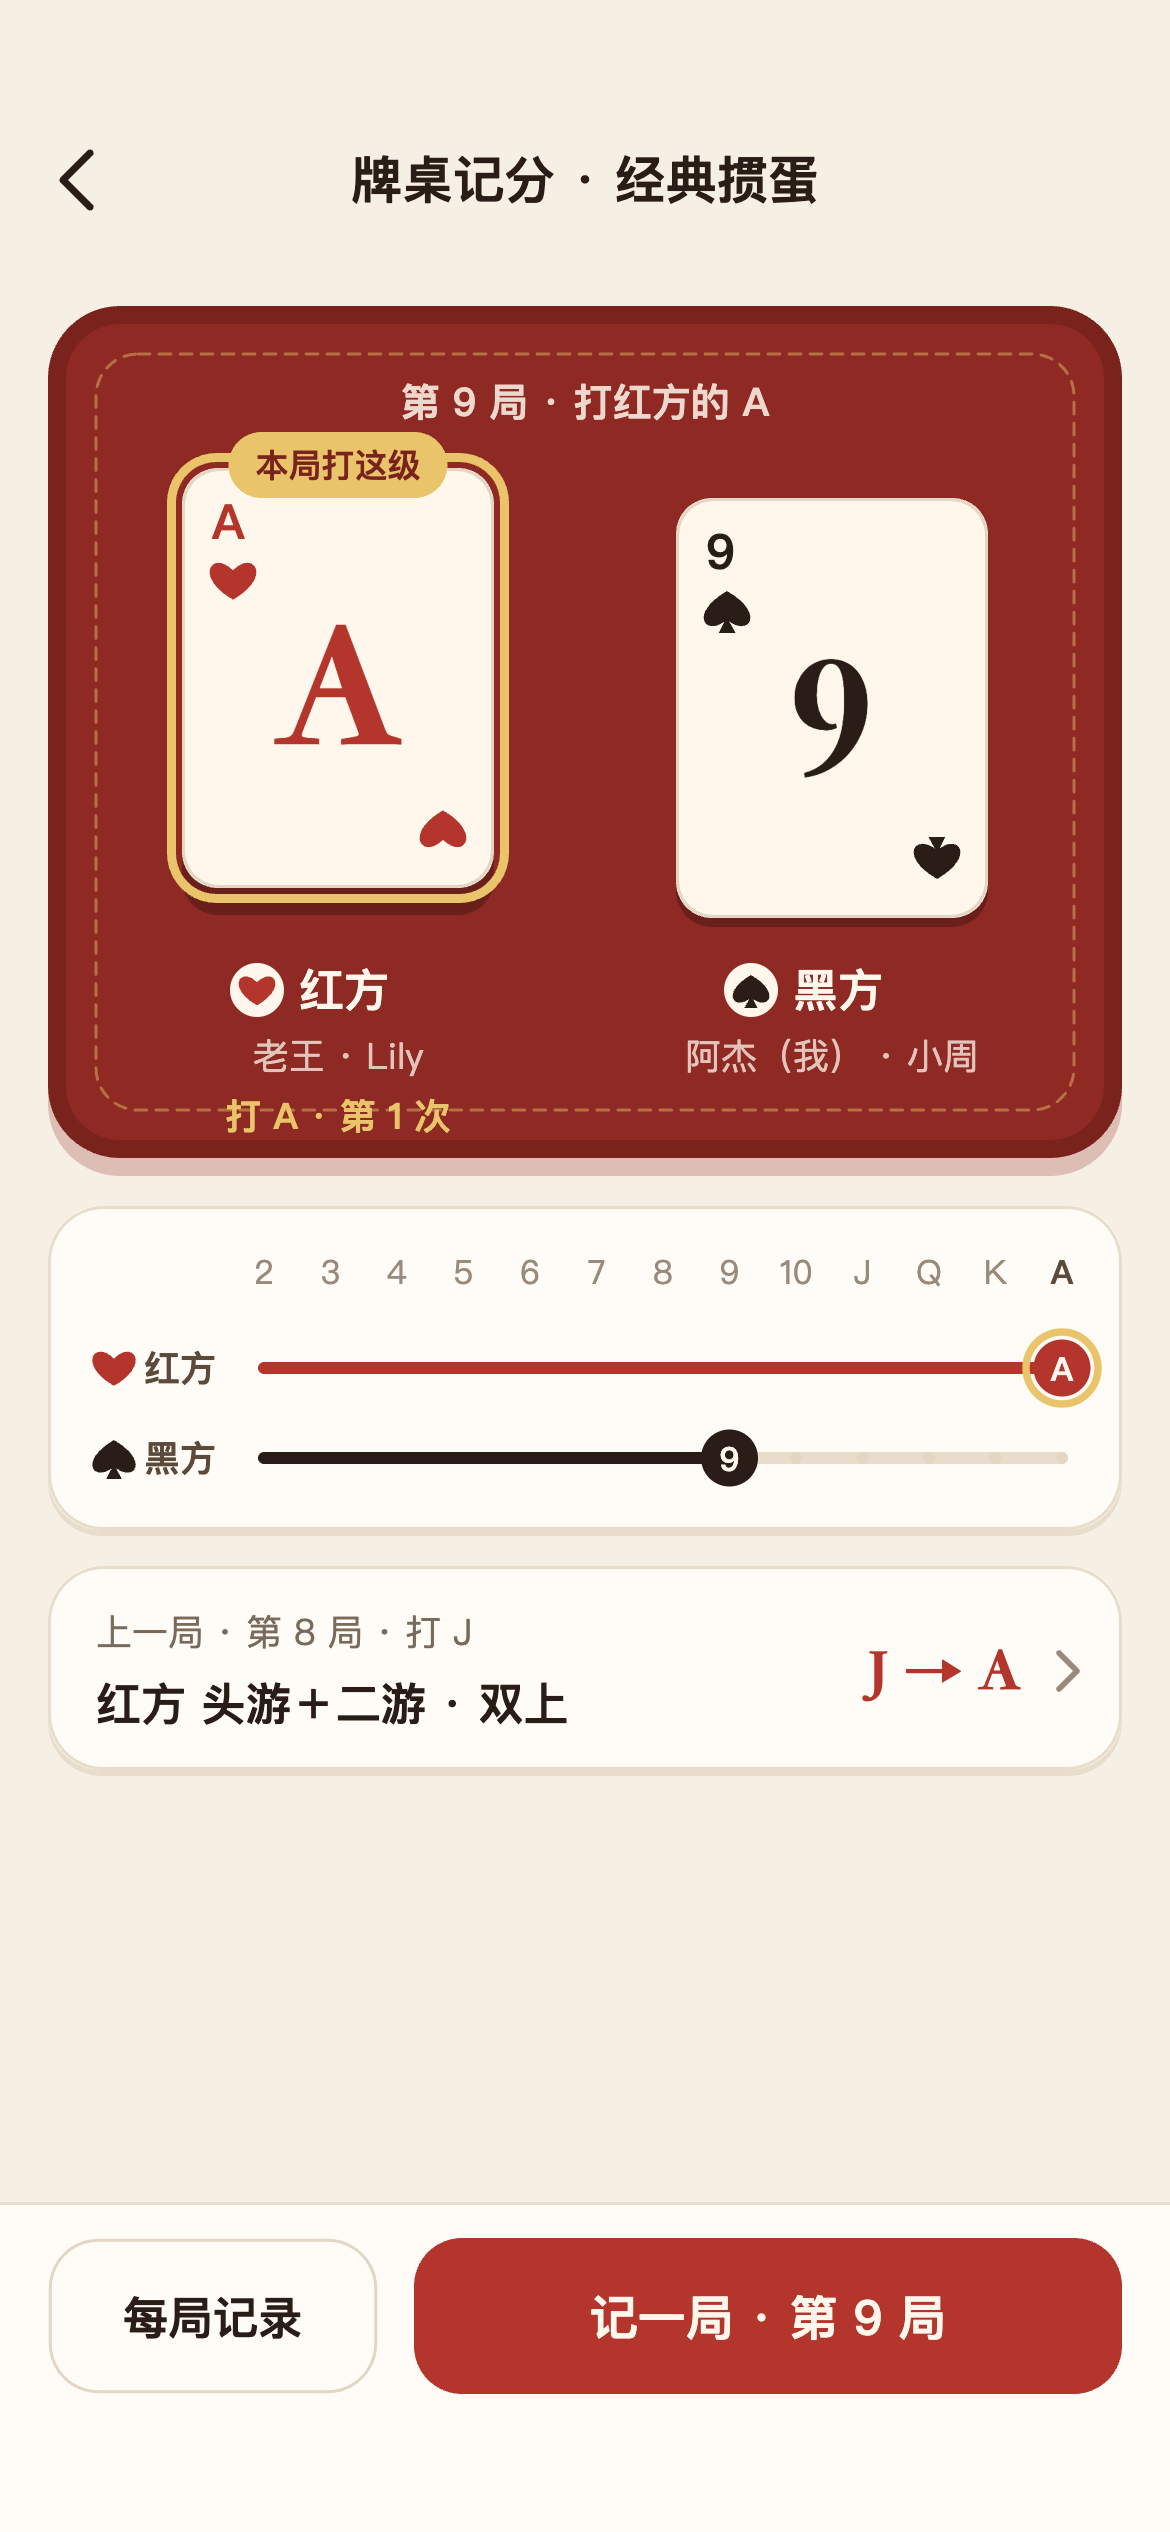
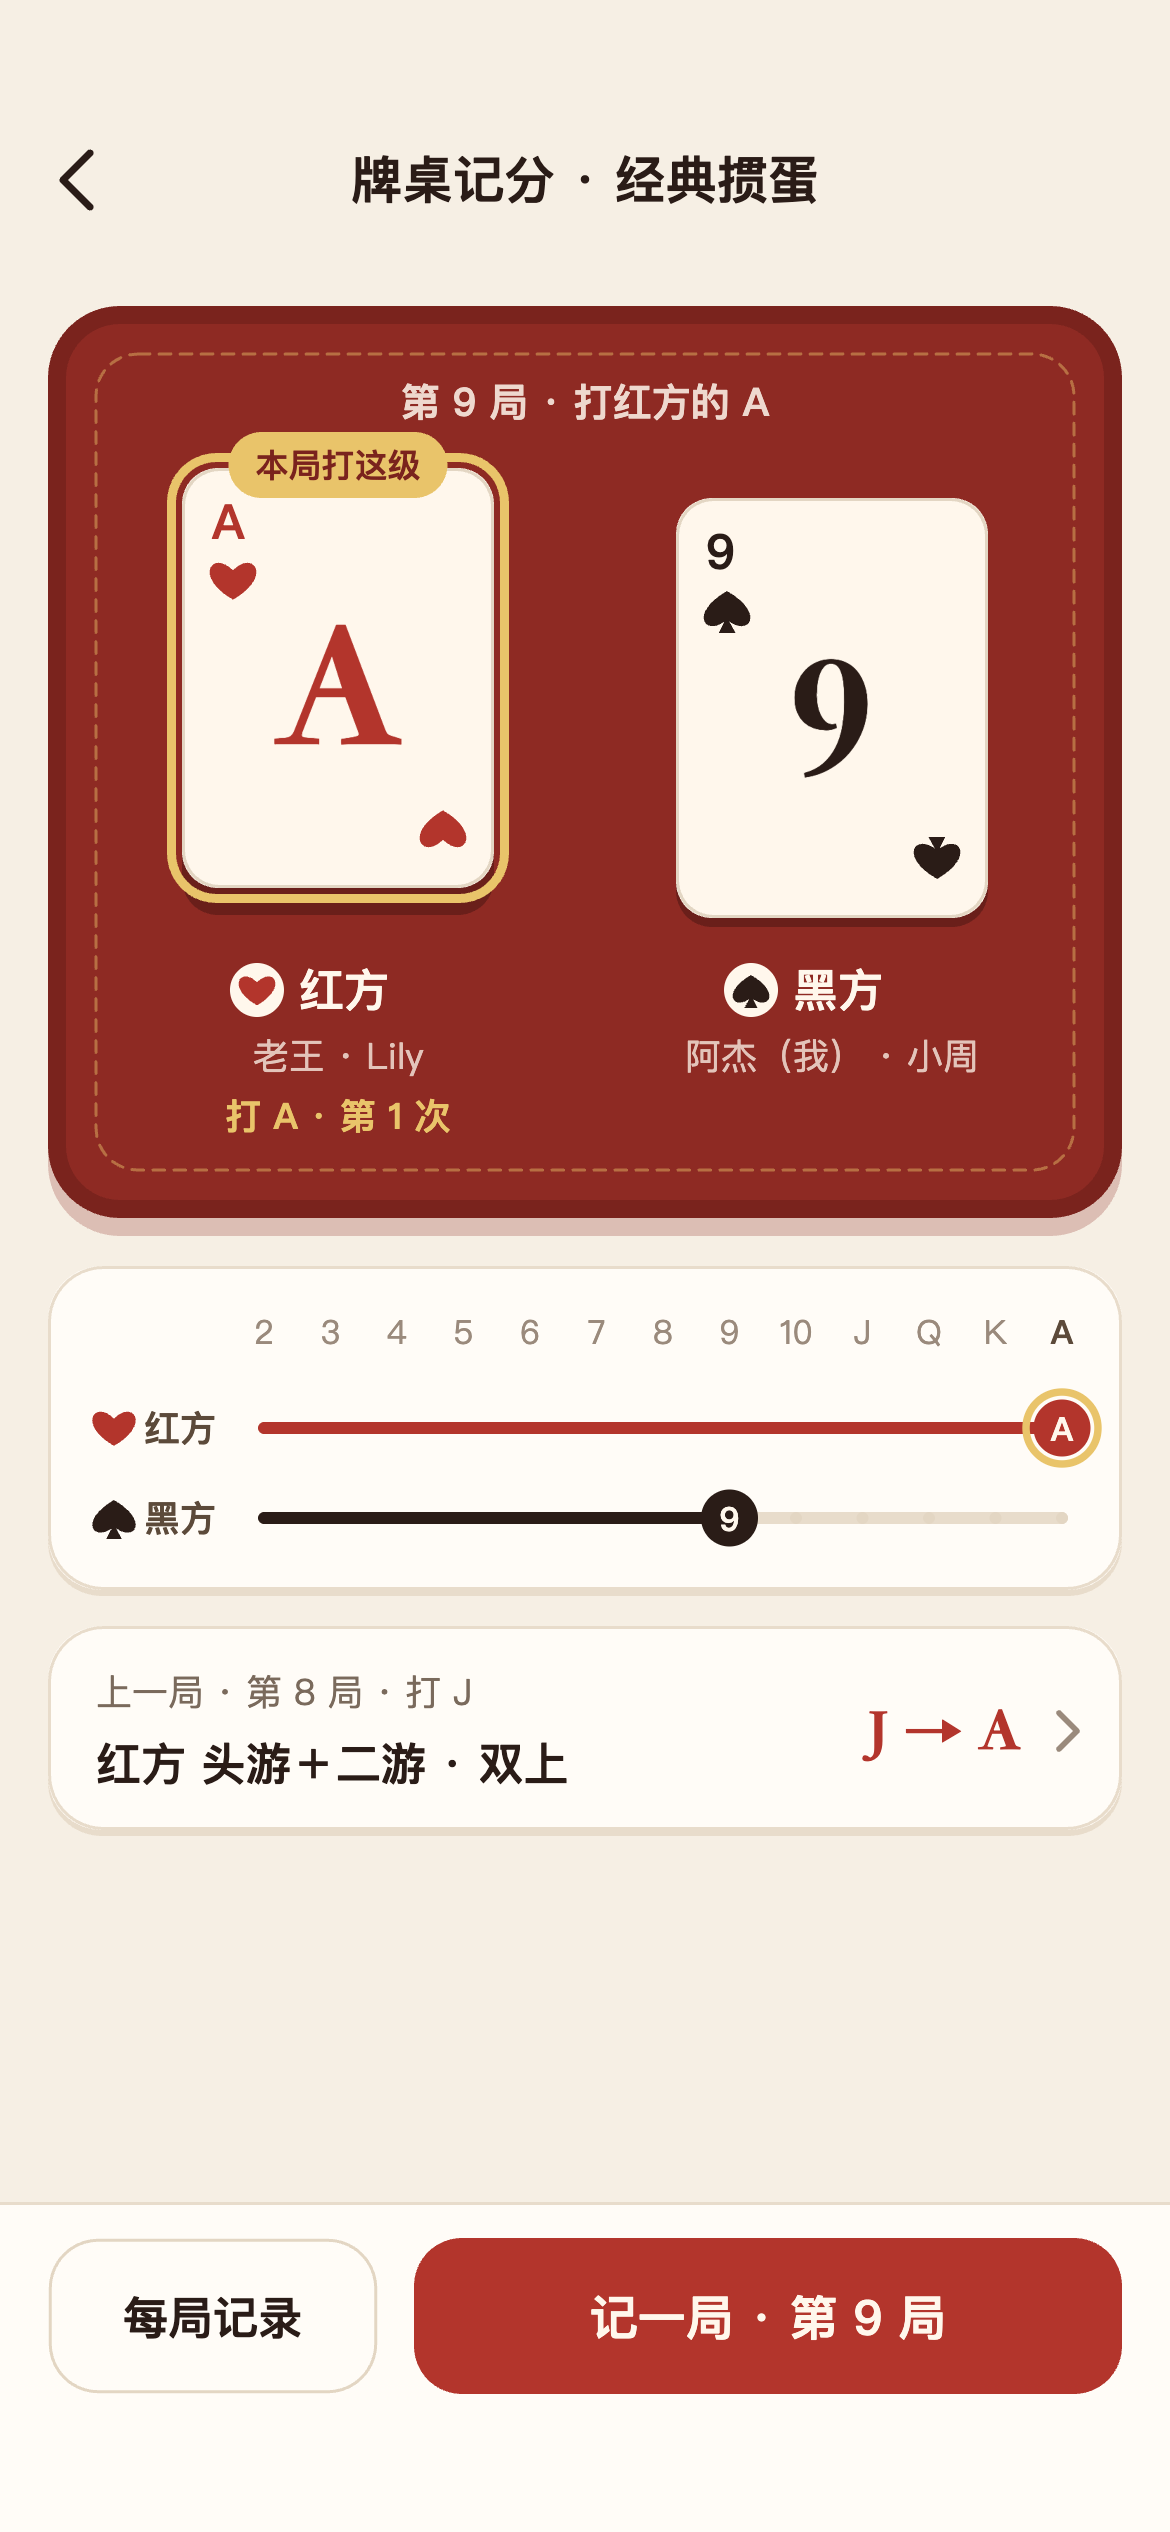
impl: #208 打 A 那一行放进牌桌、不升级局占位文案；验收接收端兜住两处
界面（#207 复审从验收截图里看出来的，不是 #207 引入的）：

1. 本队打到 A 之后多一行金色「打 A · 第 1 次」，原来画在 y+270、而牌桌固定 284 的
   内虚线落在 268 —— 字压在内虚线上、下半截出框（见 S6b-score-at-A.png）。
   设计稿 7.2 把这一行排在成员下面，但没给这行留尺寸，所以**只在这一行真的出现时**
   把牌桌放高 20（284 → 304）：不在 A 的那一局还是 284，其他行位置一点没动
   （逐像素比过，见验收 README 的「#208 复核」）。
2. 不升级玩法的记一局弹层，占位文案原来照抄经典玩法（「选完两步，这里显示升几级」），
   但这个玩法只点头游。按玩法换掉：「点头游，这里显示这一局谁赢」。

验收文档和接收端：

3. README 说 S13 是「1 : 0」，图里实际是「0 : 0」，改成图里的样子。
   另外原来那张 S13-no-level-record.png 拍的是「弹层刚打开、什么都没选」，和它的说明
   （「只要第一步」）对不上：换成 S13-no-level-sheet.png（新占位文案）+ 新增
   S13-no-level-ready.png（点了头游主按钮就能记）。
4. sink.js：query 里的 name 只取文件名（原来 `?name=../../x` 能写到输出目录外面）；
   日志缺 kind / 不是 JSON / 是 null 都记成 unparsed，不再把接收端搞崩；单条请求出错回 400、
   继续服务。

改完按验收 README 的「怎么跑」重跑了一整轮小游戏（46 步全过），重截/新增三张图。
两处接收端的改动是用改前/改后各起一个、打同样的坏请求验的：改前缺 kind 直接退出、
`../` 写到目录外；改后 200 记下并继续、`..` 回 400。

Changed region(s): [[0.0308, 0.4368, 0.9846, 0.7488]]

diff --git a/docs/verify/165-accept/sink.js b/docs/verify/165-accept/sink.js
@@ -30,35 +30,65 @@ function firstFilePart(buf, boundary) {
   return null
 }
 
+// query 里的 name 只当文件名用：直接拼路径的话 `?name=../../x` 能写到 OUT 外面（#208 四）。
+// 只监听 127.0.0.1，风险低，但没理由留这个口子。
+function safeName(raw) {
+  const s = String(raw || '')
+  if (!s || s.includes('\0')) return null
+  const base = path.basename(s)
+  if (!base || base === '.' || base === '..' || base.includes('/') || base.includes('\\')) return null
+  return base
+}
+
+function handle(req, res, body) {
+  const url = new URL(req.url, 'http://127.0.0.1')
+  const raw = url.searchParams.get('name')
+  if (raw) {
+    // 截图
+    const name = safeName(raw)
+    if (!name) throw new Error('bad name: ' + JSON.stringify(raw))
+    const ct = req.headers['content-type'] || ''
+    const m = /boundary=(.+)$/.exec(ct)
+    let img = null
+    if (m) img = firstFilePart(body, m[1].replace(/^"|"$/g, ''))
+    if (!img) img = body
+    const file = path.join(OUT, name + '.png')
+    fs.writeFileSync(file, img)
+    console.log('SHOT ' + name + ' ' + img.length + 'B -> ' + file)
+    return
+  }
+  // 日志：JSON 解析失败、或者根本不是对象（null / 数组 / 数字），都当「没解析出来」记下来，
+  // 不能因为一条坏日志就把接收端整个搞崩（#208 四）。
+  let j = null
+  try { j = JSON.parse(body.toString('utf8')) } catch { j = null }
+  if (!j || typeof j !== 'object' || Array.isArray(j)) j = { kind: 'unparsed', raw: body.toString('utf8').slice(0, 200) }
+  fs.appendFileSync(logPath, JSON.stringify(j) + '\n')
+  const d = j.data && typeof j.data === 'object' ? j.data : {}
+  const kind = typeof j.kind === 'string' && j.kind ? j.kind : 'unknown'; // 缺 kind 也要兜住
+  const line = kind === 'state' ? 'STATE ' + d.label + ' stack=' + JSON.stringify(d.stack) + ' sheets=' + d.sheets
+    : kind === 'touchstart' ? 'TOUCH ' + d.x + ',' + d.y + ' hit=' + d.hit
+    : kind === 'unparsed' ? 'UNPARSED ' + String(j.raw || '').slice(0, 200)
+    : kind.toUpperCase() + ' ' + JSON.stringify(d).slice(0, 220);
+  if (kind !== j.kind) console.log('（这条日志没有 kind，按 unknown 记）');
+  console.log(line);
+}
+
 http
   .createServer((req, res) => {
     const chunks = []
     req.on('data', (c) => chunks.push(c))
     req.on('end', () => {
-      const body = Buffer.concat(chunks)
-      const url = new URL(req.url, 'http://127.0.0.1')
-      const name = url.searchParams.get('name')
-      if (name) {
-        // 截图
-        const ct = req.headers['content-type'] || ''
-        const m = /boundary=(.+)$/.exec(ct)
-        let img = null
-        if (m) img = firstFilePart(body, m[1].replace(/^"|"$/g, ''))
-        if (!img) img = body
-        const file = path.join(OUT, name + '.png')
-        fs.writeFileSync(file, img)
-        console.log('SHOT ' + name + ' ' + img.length + 'B -> ' + file)
-      } else {
-        let j = null
-        try { j = JSON.parse(body.toString('utf8')) } catch { j = { kind: 'unparsed', raw: body.toString('utf8').slice(0, 200) } }
-        fs.appendFileSync(logPath, JSON.stringify(j) + '\n')
-        const d = j.data || {}
-        if (j.kind === 'state') console.log('STATE ' + d.label + ' stack=' + JSON.stringify(d.stack) + ' sheets=' + d.sheets)
-        else if (j.kind === 'touchstart') console.log('TOUCH ' + d.x + ',' + d.y + ' hit=' + d.hit)
-        else console.log(j.kind.toUpperCase() + ' ' + JSON.stringify(d).slice(0, 220))
+      try {
+        handle(req, res, Buffer.concat(chunks))
+        res.writeHead(200, { 'content-type': 'text/plain' })
+        res.end('ok')
+      } catch (e) {
+        // 一条请求处理不了不该让接收端退出：回 400、打日志，继续收后面的
+        console.error('BAD ' + (e && e.message ? e.message : e))
+        res.writeHead(400, { 'content-type': 'text/plain' })
+        res.end('bad request\n')
       }
-      res.writeHead(200, { 'content-type': 'text/plain' })
-      res.end('ok')
     })
   })
   .listen(PORT, '127.0.0.1', () => console.log('sink on 127.0.0.1:' + PORT + ' -> ' + OUT))
+

diff --git a/app/minigame/src/scenes/score.ts b/app/minigame/src/scenes/score.ts
@@ -272,7 +272,12 @@ export class ScoreScene implements Scene {
 
   /** S3：两张级牌立在牌桌上 */
   private drawBoard(ctx: Ctx, s: StartedScore, y: number): number {
-    const a = this.app, x = PAD, w = a.W - PAD * 2, h = 284, st = this.board;
+    const a = this.app, x = PAD, w = a.W - PAD * 2, st = this.board;
+    // 本队到 A 之后多一行金色「打 A · 第 1 次」，设计稿 7.2 把它排在成员下面，
+    // 但牌桌固定 284 放不下：inset 16 的内虚线落在 268，字会压在上面、下半截出框（#208 截图）。
+    // 所以只在这一行真的出现时把牌桌放高 20 —— 平时保持设计稿的 284，不动其他行。
+    const atA = (["red", "black"] as const).some((t) => !!aTip(st[t]));
+    const h = atA ? 304 : 284;
     felt(ctx, x, y, w, h);
     text(ctx, boardTitle(s.rounds.length + 1, st, s.settings.kind), a.W / 2, y + 32, font(13, "700"), CREAM(0.85), "center");
     (["red", "black"] as const).forEach((t) => {
@@ -575,7 +580,7 @@ function recordSheet(sc: ScoreScene, editing: ScoreRound | null) {
         pv = previewText(settings, pre, f, names);
         if (editing && pv.kind === "normal" && editing.winner === pv.team) pv = { ...pv, sub: `原来 → ${levelName(editing.level_after)}` };
       }
-      drawPreview(ctx, 20, cy, pw, ph, pv);
+      drawPreview(ctx, 20, cy, pw, ph, pv, noLevel);
       cy += ph + 14;
 
       // S10：改一局的连带变化（本地按规则重算的预览，提交后以服务端为准）
@@ -609,10 +614,11 @@ function impactLine(now: ScoreState, after: ScoreState): string {
   return `现在 ${team("red")} · ${team("black")} · ${tail}`;
 }
 
-function drawPreview(ctx: Ctx, x: number, y: number, w: number, h: number, p: Preview | null) {
+function drawPreview(ctx: Ctx, x: number, y: number, w: number, h: number, p: Preview | null, noLevel = false) {
   if (!p) {
     strokeRR(ctx, x + 0.5, y + 0.5, w - 1, h - 1, 14, C.line2, 1, [4, 4]);
-    text(ctx, "选完两步，这里显示升几级", x + w / 2, y + h / 2, font(13), C.ink4, "center");
+    // 不升级局只看头游、没有级数变化，占位文案跟着换（#208 二）
+    text(ctx, noLevel ? "点头游，这里显示这一局谁赢" : "选完两步，这里显示升几级", x + w / 2, y + h / 2, font(13), C.ink4, "center");
     return;
   }
   if (p.kind === "pass") {

diff --git a/docs/verify/165-accept/README.md b/docs/verify/165-accept/README.md
@@ -6,8 +6,11 @@
 - 工具：微信开发者工具（`appid wxc39979bdad718461`，`compileType: game`），机型 375×667
 - 服务端：本机 `GUANDAN_DEV=1`（假 wx 登录、假内容检测），`API_BASE=http://127.0.0.1:18780`
 - 走查脚本：`app/minigame/src/accept165.ts`（只编进 `--selftest` 包，见下面「怎么跑」）
-- 一次跑完 32 步、33 张图，**没有一步落空**（脚本会把「热区没找到 / 被禁用 / 步骤抛异常」
+- 一次跑完 46 步、48 张图，**没有一步落空**（脚本会把「热区没找到 / 被禁用 / 步骤抛异常」
   都报回来；这一轮这三种一条都没有）
+- **这批图来自两轮**：#206 那一轮（多数图）+ #208 修完后又跑的一轮（下面标注了「#208 重截」
+  的三张）。两轮的走查脚本和页面代码只差 #208 那两处改动 —— 其余图逐像素核过，
+  除了详情页那个跟着真实时间走的「开打时刻」以外没有变化（见文末「#208 复核」）
 
 ## 为什么不用 `miniprogram-automator`
 
@@ -51,7 +54,7 @@ cli open --project <repo>/app/minigame
 | `S4-record-1.png` | S4 | 记一局①：谁头游（红方一行、黑方一行，同一行就是搭档） |
 | `S5-record-2-head.png` | S5 | 选了头游 → ② 头游的搭档第几 启用 |
 | `S6-record-3-preview.png` | S6 | 选完搭档 → 预览「升 N 级 · 下一局打 X」 |
-| `S6b-score-at-A.png` | S3/S6 | 红方打到 A：A 牌金边 +「本局打这级」 |
+| `S6b-score-at-A.png` | S3/S6 | 红方打到 A：A 牌金边 +「本局打这级」+ 成员下面一行金色「打 A · 第 1 次」（**#208 重截**：#208 之前这一行压在牌桌内虚线上、下半截出框） |
 | `S6b-pass-A-preview.png` | **S6 的过 A 分支** | 「本局打红方的 A · 第 1 次」；② 换成「过 A / 过 A / 没过」；预览变**金色**「过 A！红方 赢下这一场」；主按钮变「记下 · 本场结束」 |
 | `S7-recorded.png` | S7 | 记下第 1 局 → 回记分页，级数和路线都动了 |
 | `S9-records.png` | S9 | 每局记录：局号圆、「打黑 7」签、谁记的、右侧级数变化 |
@@ -62,8 +65,9 @@ cli open --project <repo>/app/minigame
 | `S12-take-theirs.png` | S12 | 点了「用 TA 的」之后 |
 | `S8-match-over.png` | S8 | 本场结束：赢方 A 牌金边、「红方 过 A」、操作栏「分享战报 / 再来一场」 |
 | `S15-report-card.png` | S15 | 战报卡片（`wx.shareAppMessage` 生成的 imageUrl，直接从钩子里截回来） |
-| `S13-no-level-score.png` | S13 | 不升级玩法：两张牌换成**胜局数 1 : 0**，下面「双上」次数卡，没有级牌和升级路线 |
-| `S13-no-level-record.png` | S13 | 不升级的记一局：只要第一步（选了头游主按钮就能点） |
+| `S13-no-level-score.png` | S13 | 不升级玩法：两张牌换成**胜局数 0 : 0**（那一轮还没记过局），下面「双上」次数卡，没有级牌和升级路线 |
+| `S13-no-level-sheet.png` | S13 | 不升级的记一局弹层刚打开：② 是可选的（右边写「可以不选」），占位文案按玩法换成「点头游，这里显示这一局谁赢」（**#208 重截**） |
+| `S13-no-level-ready.png` | S13 | 不升级的记一局：点了头游就能记 —— 预览「红方赢一局 / 老王 头游」，主按钮可用（**#208 新增**） |
 | `S14-spectator.png` | S14 | 旁观视角：底栏只有「分享」+「只有座位上的四个人能记分」 |
 
 S12 的「两个人记的**一样** → 静默合并 + toast「和 Lily 记的一样」」这一轮**没单独截**：
@@ -109,3 +113,31 @@ S15 卡片全部通过**，没有一张是空页/过渡帧。几何也量过：S
    （一个人同时最多占 5 个位置）。
 6. `waitHit` 要等「能用」而不只是「存在」：弹层里没选头游时，搭档那三个选项**也在 hits 里**，
    只是 `onTap=null`。
+
+## #208 复核：重截之后又跑了一轮
+
+#208 改了两处界面（打 A 那一行、不升级局的占位文案），改完按上面的「怎么跑」又完整跑了一轮
+（服务端 127.0.0.1:18790、接收端 127.0.0.1:18690，避开别的会话）。46 步全过，
+`tap-miss` / `tap-disabled` / `step-throw` / `shot-throw` 一条都没有。
+
+**这一轮是不是只动了该动的**：把新图和老图**逐像素**比了一遍（`PIL` 的 `ImageChops`），
+不是只看「差不多」。结论：**版面一处没动**，多出来的差异全部能解释。
+
+| 图 | 不同像素 | 为什么 |
+|---|---|---|
+| 其余各页（S3–S7、S11、S12 两张、S13 计分、S14） | 0～38 | 只有文字抗锯齿的噪点（`S8`、`S15` 连字节都一样）；记分页也在这档，说明**不在 A 的那一局牌桌还是 284、位置一点没动** |
+| S1 详情页、S2 开始弹层 | 10871（0.367%） | 都在「开打时刻」那一块：走查每轮新建一局、开打时刻 = 跑的时刻 + 20 分钟，所以显示 09:40 / 10:37 这种**真实时间** |
+| S9 每局记录、S10 改一局（两张） | 3128～10922 | 都是记录行里「谁记的 + 时刻」那一列（`Lily 09:20 记` → `Lily 10:18 记`），同样是真实时间 |
+| S6b-pass-A-preview | 1314 | 差异**只沿弹层左边缘**（每行最多 10 个像素）：弹层是半透明的边，背后那块牌桌因为这次改动高了 20，混出来的边色跟着变了一点 |
+| S6b-score-at-A | 牌桌 284 → 304 | 这次要改的第一处 |
+| S13-no-level-sheet | 占位文案那一行 | 这次要改的第二处 |
+
+**顺手验了接收端的两个小修**（`sink.js`）——用改之前的那份和改之后的各起一个、打同样的坏请求：
+
+```
+改之前  日志缺 kind          → 接收端直接退出（HTTP 000），后面全收不到
+改之前  ?name=../../escaped  → 200，并把文件写到输出目录**外面**（/tmp/sink-proof/escaped.png）
+改之后  日志缺 kind          → 200，记成 UNPARSED {"data":{"label":"x"}}，接收端继续跑
+改之后  ?name=../../escaped  → 200，只取文件名，落在 out/escaped.png
+改之后  ?name=..             → 400（一条请求处理不了不该让接收端退出）
+```
